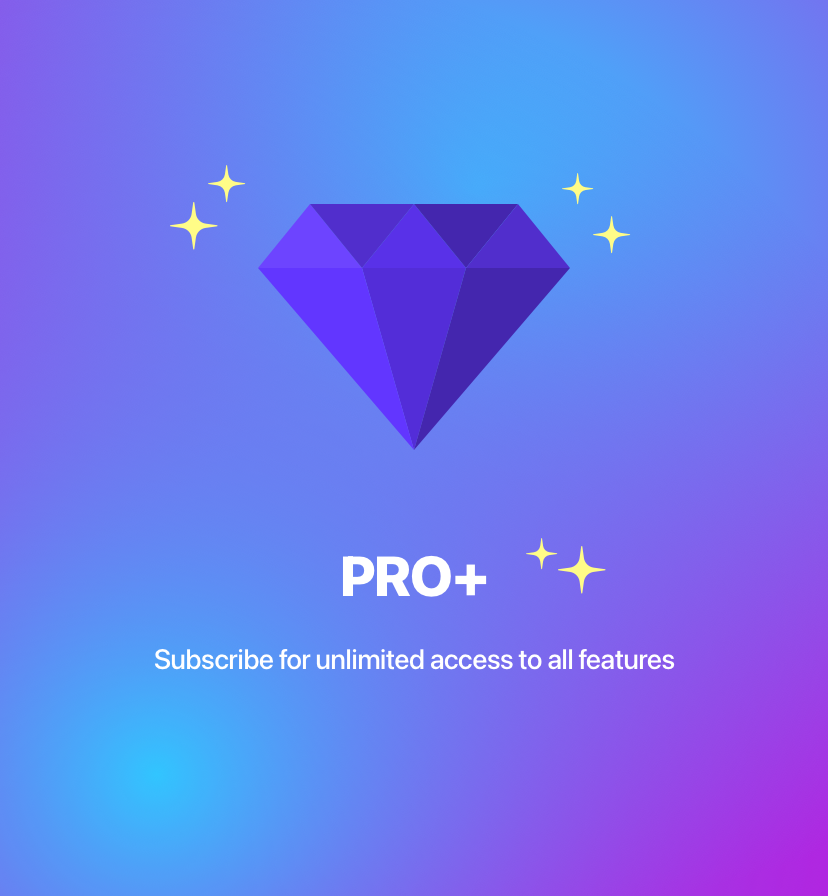
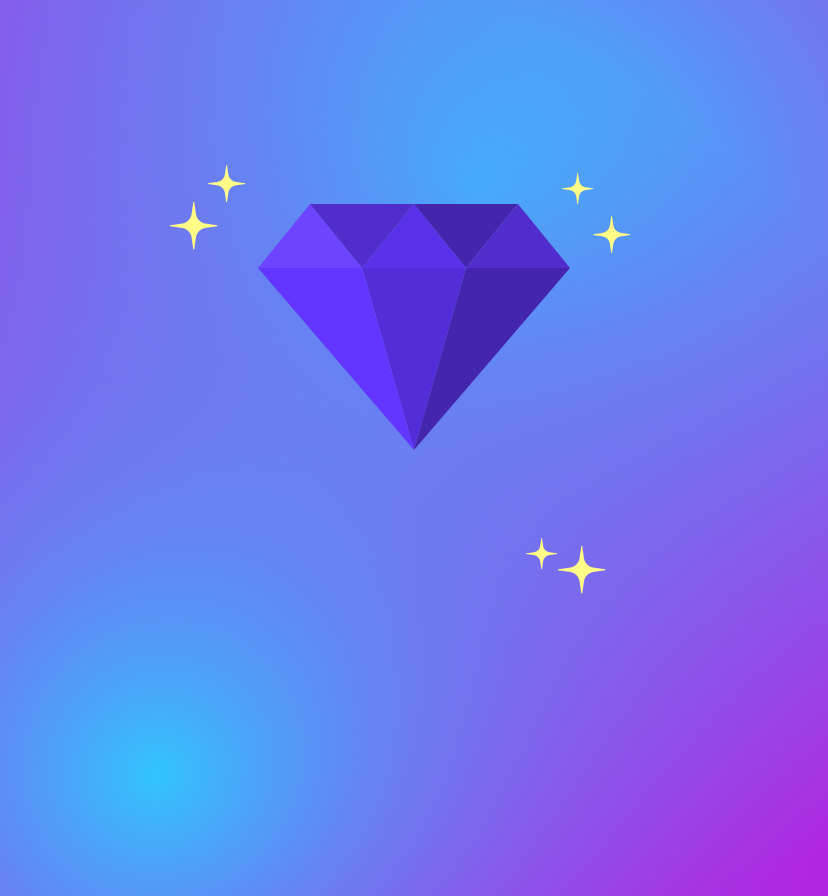
Update Purchase slider images

Changed region(s): [[0.1812, 0.7188, 0.8152, 0.75], [0.3925, 0.5938, 0.6039, 0.6875]]

diff --git a/src/components/PurchaseModal.js b/src/components/PurchaseModal.js
@@ -31,6 +31,7 @@ import {
 } from 'actions/userActions';
 
 import { mapIndexed } from 'utils/ramdaUtils';
+import i18n from 'i18n';
 
 const StyledView = styled(ScrollView).attrs({
   contentContainerStyle: {
@@ -62,7 +63,7 @@ const ButtonWrapper = styled(View)`
   justify-content: center;
   align-items: center;
   flex-direction: row;
-  bottom: 75;
+  bottom: 50;
   right: 0;
   left: 0;
   margin-horizontal: auto;
@@ -100,7 +101,8 @@ const StyledProductItemWithIAP = styled(ProductItemWithIAP)`
   margin-top: 16;
 `;
 
-const { height: screenHeight } = Dimensions.get('window');
+const { height: screenHeight, width: screenWidth } = Dimensions.get('window');
+
 const StyledActivityIndicator = styled(ActivityIndicator)`
   position: absolute;
   top: ${screenHeight / 2.5};
@@ -120,11 +122,50 @@ const PrivacyTextWrapper = styled(TouchableOpacity)`
   margin-top: 20;
 `;
 
+const Title = styled(Text)`
+  color: ${path(['theme', 'primary', 'lightBlue'])};
+  font-size: 28;
+  font-weight: bold;
+  text-align: center;
+`;
+
+const Description = styled(Text)`
+  color: ${path(['theme', 'primary', 'lightBlue'])};
+  font-size: 14;
+  font-weight: bold;
+  text-align: center;
+  padding-top: 10;
+`; 
+
+const TextWrapper = styled(View)`
+  background-color: transparent;
+  position: absolute;
+  top: 255;
+  left: 50%;
+  width: ${screenWidth * 0.8}
+  `;
+
 const images = [
-  require('assets/images/pro_instro1.png'),
-  require('assets/images/pro_instro2.png'),
-  require('assets/images/pro_instro3.png'),
-  require('assets/images/pro_instro4.png'),
+  { 
+    uri: require('assets/images/pro_instro1.png'),
+    text1: i18n.t('purchase_promo_title_1'),
+    text2: i18n.t('purchase_promo_text_1'),
+  },
+  { 
+    uri: require('assets/images/pro_instro2.png'),
+    text1: i18n.t('purchase_promo_title_2'),
+    text2: i18n.t('purchase_promo_text_2'),  
+  },
+  { 
+    uri: require('assets/images/pro_instro3.png'),
+    text1: i18n.t('purchase_promo_title_3'),
+    text2: i18n.t('purchase_promo_text_3'),  
+  },
+  { 
+    uri: require('assets/images/pro_instro4.png'),
+    text1: i18n.t('purchase_promo_title_4'),
+    text2: i18n.t('purchase_promo_text_4'),  
+  },
 ];
 
 const initialListContents = Object.values(PRODUCTS_IDS);
@@ -228,7 +269,11 @@ const PurchaseModal = ({ navigation }) => {
           customSlide={({ index, item, style, width }) => (
             // It's important to put style here because it's got offset inside
             <ImageWrapper key={index} style={style} index={index}>
-              <StyledImage source={item} />
+              <StyledImage source={item.uri} />
+              <TextWrapper style={{ transform: [{ translateX: -screenWidth * 0.8 / 2 }] }}>
+                <Title>{item.text1}</Title>
+                <Description>{item.text2}</Description>
+              </TextWrapper>
             </ImageWrapper>
           )}
           customButtons={(position, move) => (
